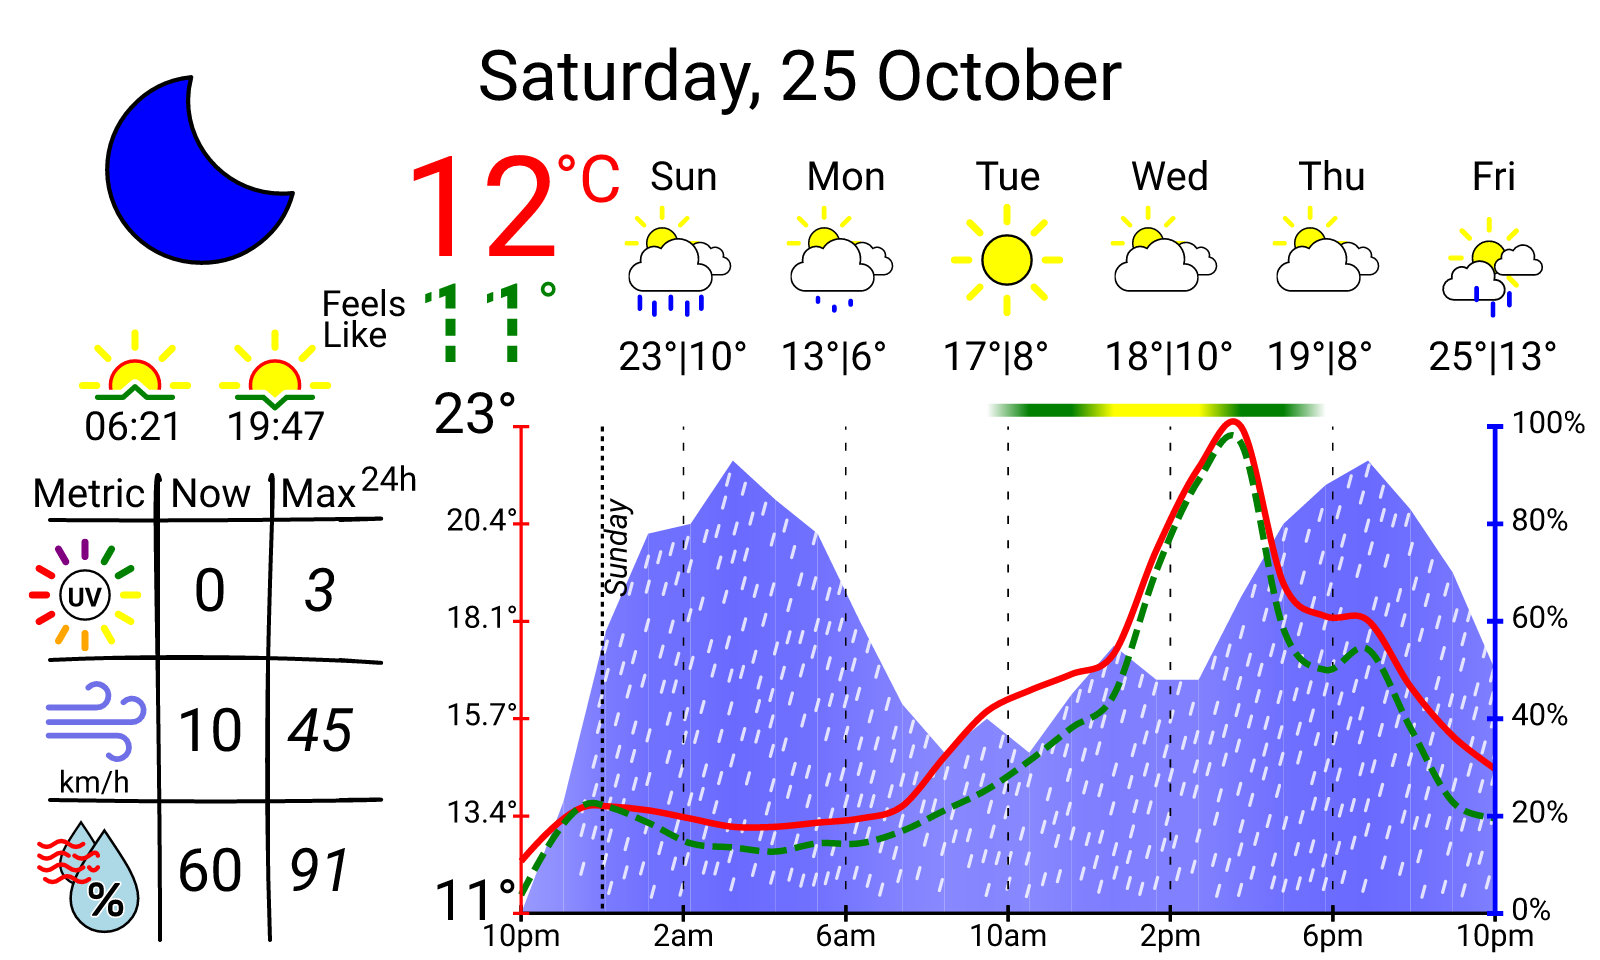
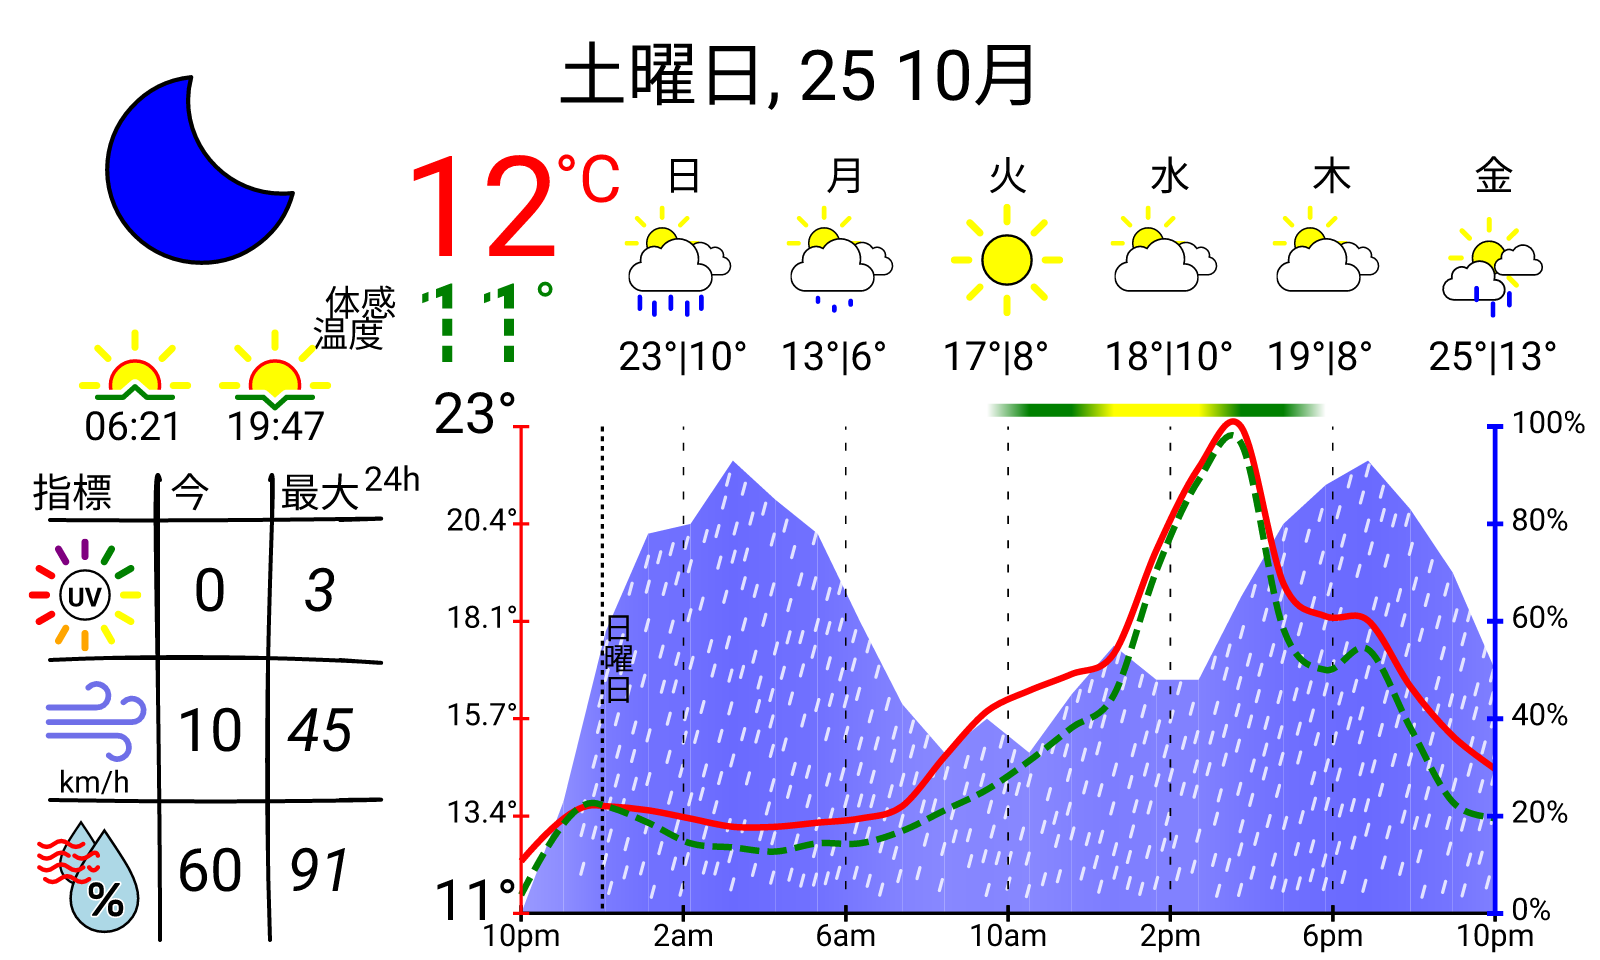
fix(i18n): render Japanese tomorrow-marker in stacked long form
Rotating kanji glyphs -90° (the Latin-script convention used for the
other locales) reads as broken, and the single-kanji short form dropped
too much information. Render the full weekday name top-to-bottom
(tategaki) instead, and drop the per-weekday byte-length fallback for
Latin languages in favour of a test-time invariant, since a per-day
runtime fallback could make one weekday look inconsistent with the rest.

diff --git a/src/i18n.rs b/src/i18n.rs
@@ -1,8 +1,9 @@
 use chrono::{DateTime, Datelike, TimeZone, Weekday};
 use std::fmt::Display;
 
-#[derive(Debug, Clone, Copy, PartialEq, Eq)]
+#[derive(Debug, Default, Clone, Copy, PartialEq, Eq)]
 pub enum Language {
+    #[default]
     En,
     Fr,
     De,
@@ -32,8 +33,8 @@ pub enum TranslationKey {
     Hours24,
 }
 
-pub fn translate(key: TranslationKey, language_code: &str) -> &'static str {
-    match (Language::from_config(language_code), key) {
+pub fn translate(key: TranslationKey, language: Language) -> &'static str {
+    match (language, key) {
         (Language::En, TranslationKey::Feels) => "Feels",
         (Language::En, TranslationKey::Like) => "Like",
         (Language::En, TranslationKey::Metric) => "Metric",
@@ -67,8 +68,8 @@ pub fn translate(key: TranslationKey, language_code: &str) -> &'static str {
     }
 }
 
-pub fn weekday_short(weekday: Weekday, language_code: &str) -> &'static str {
-    match Language::from_config(language_code) {
+pub fn weekday_short(weekday: Weekday, language: Language) -> &'static str {
+    match language {
         Language::En => match weekday {
             Weekday::Mon => "Mon",
             Weekday::Tue => "Tue",
@@ -117,8 +118,8 @@ pub fn weekday_short(weekday: Weekday, language_code: &str) -> &'static str {
     }
 }
 
-pub fn weekday_long(weekday: Weekday, language_code: &str) -> &'static str {
-    match Language::from_config(language_code) {
+pub fn weekday_long(weekday: Weekday, language: Language) -> &'static str {
+    match language {
         Language::En => match weekday {
             Weekday::Mon => "Monday",
             Weekday::Tue => "Tuesday",
@@ -167,21 +168,8 @@ pub fn weekday_long(weekday: Weekday, language_code: &str) -> &'static str {
     }
 }
 
-/// Returns the long weekday name if it fits within `max_len` bytes, otherwise
-/// falls back to the short abbreviation. Guards fixed-width display slots
-/// (e.g. a rotated chart label) against translations longer than the
-/// hand-picked English/French/Spanish abbreviations happen to be.
-pub fn weekday_fitting(weekday: Weekday, language_code: &str, max_len: usize) -> &'static str {
-    let long_name = weekday_long(weekday, language_code);
-    if long_name.len() <= max_len {
-        long_name
-    } else {
-        weekday_short(weekday, language_code)
-    }
-}
-
-pub fn month_short(month: u32, language_code: &str) -> &'static str {
-    match Language::from_config(language_code) {
+pub fn month_short(month: u32, language: Language) -> &'static str {
+    match language {
         Language::En => match month {
             1 => "Jan",
             2 => "Feb",
@@ -260,8 +248,8 @@ pub fn month_short(month: u32, language_code: &str) -> &'static str {
     }
 }
 
-pub fn month_long(month: u32, language_code: &str) -> &'static str {
-    match Language::from_config(language_code) {
+pub fn month_long(month: u32, language: Language) -> &'static str {
+    match language {
         Language::En => match month {
             1 => "January",
             2 => "February",
@@ -340,12 +328,12 @@ pub fn month_long(month: u32, language_code: &str) -> &'static str {
     }
 }
 
-pub fn format_localized_date<Tz>(date: DateTime<Tz>, format: &str, language_code: &str) -> String
+pub fn format_localized_date<Tz>(date: DateTime<Tz>, format: &str, language: Language) -> String
 where
     Tz: TimeZone,
     Tz::Offset: Display,
 {
-    if Language::from_config(language_code) == Language::En {
+    if language == Language::En {
         return date.format(format).to_string();
     }
 
@@ -359,30 +347,30 @@ where
 
     date.format(&template)
         .to_string()
-        .replace("\x00WL\x00", weekday_long(date.weekday(), language_code))
-        .replace("\x00WS\x00", weekday_short(date.weekday(), language_code))
-        .replace("\x00ML\x00", month_long(date.month(), language_code))
-        .replace("\x00MS\x00", month_short(date.month(), language_code))
+        .replace("\x00WL\x00", weekday_long(date.weekday(), language))
+        .replace("\x00WS\x00", weekday_short(date.weekday(), language))
+        .replace("\x00ML\x00", month_long(date.month(), language))
+        .replace("\x00MS\x00", month_short(date.month(), language))
 }
 
 #[cfg(test)]
 mod tests {
     use super::{
-        format_localized_date, translate, weekday_fitting, weekday_short, Language, TranslationKey,
+        format_localized_date, translate, weekday_long, weekday_short, Language, TranslationKey,
     };
     use chrono::{Local, TimeZone, Weekday};
 
     #[test]
     fn unknown_language_falls_back_to_english() {
         assert_eq!(Language::from_config("unknown"), Language::En);
-        assert_eq!(translate(TranslationKey::Feels, "unknown"), "Feels");
+        assert_eq!(translate(TranslationKey::Feels, Language::En), "Feels");
     }
 
     #[test]
     fn returns_localized_weekday_abbreviations() {
-        assert_eq!(weekday_short(Weekday::Mon, "fr"), "Lun");
-        assert_eq!(weekday_short(Weekday::Tue, "de"), "Di");
-        assert_eq!(weekday_short(Weekday::Sun, "ja"), "日");
+        assert_eq!(weekday_short(Weekday::Mon, Language::Fr), "Lun");
+        assert_eq!(weekday_short(Weekday::Tue, Language::De), "Di");
+        assert_eq!(weekday_short(Weekday::Sun, Language::Ja), "日");
     }
 
     #[test]
@@ -390,20 +378,40 @@ mod tests {
         let date = Local.with_ymd_and_hms(2025, 10, 25, 12, 0, 0).unwrap();
 
         assert_eq!(
-            format_localized_date(date, "%A, %d %B", "fr"),
+            format_localized_date(date, "%A, %d %B", Language::Fr),
             "Samedi, 25 Octobre"
         );
         assert_eq!(
-            format_localized_date(date, "%a, %-d %b", "de"),
+            format_localized_date(date, "%a, %-d %b", Language::De),
             "Sa, 25 Okt"
         );
     }
 
     #[test]
-    fn weekday_fitting_falls_back_to_short_name_past_max_len() {
-        // "Donnerstag" (10 bytes) exceeds a max_len of 8, so it falls back to "Do".
-        assert_eq!(weekday_fitting(Weekday::Thu, "de", 8), "Do");
-        // "Montag" (6 bytes) fits within a max_len of 8, so it passes through.
-        assert_eq!(weekday_fitting(Weekday::Mon, "de", 8), "Montag");
+    fn weekday_long_names_fit_the_rotated_chart_label_budget() {
+        // draw_tomorrow_line rotates weekday_long into a fixed-height chart
+        // slot for Latin-script languages. All weekdays within a language
+        // must use the same (long) form, so this asserts the budget for
+        // every day rather than falling back per-day at render time, which
+        // would produce visually inconsistent label shapes within a locale.
+        const MAX_LEN: usize = 10;
+        for language in [Language::En, Language::Fr, Language::De, Language::Es] {
+            for weekday in [
+                Weekday::Mon,
+                Weekday::Tue,
+                Weekday::Wed,
+                Weekday::Thu,
+                Weekday::Fri,
+                Weekday::Sat,
+                Weekday::Sun,
+            ] {
+                let name = weekday_long(weekday, language);
+                assert!(
+                    name.len() <= MAX_LEN,
+                    "{name:?} ({language:?}, {weekday:?}) is {} bytes, over the {MAX_LEN}-byte rotated label budget",
+                    name.len()
+                );
+            }
+        }
     }
 }

diff --git a/src/dashboard/chart.rs b/src/dashboard/chart.rs
@@ -1,9 +1,12 @@
 use crate::{
-    clock::Clock, constants::DEFAULT_AXIS_LABEL_FONT_SIZE, i18n::weekday_fitting, logger,
+    clock::Clock,
+    constants::DEFAULT_AXIS_LABEL_FONT_SIZE,
+    i18n::{weekday_long, Language},
+    logger,
     weather::icons::UVIndexIcon,
 };
 use anyhow::Error;
-use chrono::Datelike;
+use chrono::{Datelike, Weekday};
 use std::fmt;
 use strum_macros::Display;
 
@@ -123,7 +126,7 @@ pub struct HourlyForecastGraph {
     /// Display timezone for time-dependent labels (e.g. the "tomorrow" day name).
     pub tz: chrono_tz::Tz,
     /// Display language for time-dependent labels (e.g. the "tomorrow" day name).
-    pub language: String,
+    pub language: Language,
 }
 
 // TODO: use the builder pattern to create the graph
@@ -156,7 +159,7 @@ impl Default for HourlyForecastGraph {
             text_colour: "black".to_string(),
             background_colour: "white".to_string(),
             tz: chrono_tz::UTC,
-            language: "en".to_string(),
+            language: Language::En,
         }
     }
 }
@@ -406,6 +409,24 @@ pub struct AxisPaths {
     pub y_right_labels: String,
 }
 
+/// How the "tomorrow" weekday label is drawn on the day-boundary line.
+enum TomorrowLabel {
+    /// rotated -90° for Latin scripts.
+    Rotated(&'static str),
+    /// Stacked for japanese
+    Stacked(&'static str),
+}
+
+/// Picks the tomorrow-label style for a language.
+fn tomorrow_label(language: Language, weekday: Weekday) -> TomorrowLabel {
+    match language {
+        Language::Ja => TomorrowLabel::Stacked(weekday_long(weekday, language)),
+        Language::En | Language::Fr | Language::De | Language::Es => {
+            TomorrowLabel::Rotated(weekday_long(weekday, language))
+        }
+    }
+}
+
 /// Create the axis paths and labels for the graph
 impl HourlyForecastGraph {
     pub fn create_axis_with_labels(&self, current_hour: f32, clock: &dyn Clock) -> AxisPaths {
@@ -653,30 +674,52 @@ impl HourlyForecastGraph {
     }
 
     fn draw_tomorrow_line(&self, x_coor: f32, clock: &dyn Clock) -> String {
-        let language = self.language.as_str();
-        // 10 bytes is the longest weekday_long name across all supported
-        // locales ("Donnerstag"); beyond that, fall back to the short form
-        // so a future translation can't overflow this rotated chart label.
-        let tomorrow_day_name = weekday_fitting(
-            (clock.now_local(self.tz) + chrono::Duration::days(1)).weekday(),
-            language,
-            10,
-        )
-        .to_string();
+        let tomorrow_weekday = (clock.now_local(self.tz) + chrono::Duration::days(1)).weekday();
 
-        format!(
-            r#"<line x1="{x}" y1="0" x2="{x}" y2="{chart_height}" stroke="{colour}" stroke-width="2" stroke-dasharray="3,3" />
+        match tomorrow_label(self.language, tomorrow_weekday) {
+            TomorrowLabel::Rotated(tomorrow_day_name) => format!(
+                r#"<line x1="{x}" y1="0" x2="{x}" y2="{chart_height}" stroke="{colour}" stroke-width="2" stroke-dasharray="3,3" />
                    <text x="{x_text}" y="{y_text}" fill="{colour}" font-size="{DEFAULT_AXIS_LABEL_FONT_SIZE}" font-style="{font_style}"  transform="rotate(-90, {rotate_x_text}, {rotate_y_text})" text-anchor="start">{tomorrow_day_name}</text>"#,
-            x = x_coor,
-            chart_height = self.height,
-            x_text = x_coor + 10.0,
-            y_text = (self.height / 2.0) + 20.0,
-            font_style = FontStyle::Italic,
-            rotate_x_text = x_coor + 10.0 - 30.0,
-            rotate_y_text = (self.height / 2.0) - 15.0,
-            colour = self.text_colour,
-            tomorrow_day_name = tomorrow_day_name
-        )
+                x = x_coor,
+                chart_height = self.height,
+                x_text = x_coor + 10.0,
+                y_text = (self.height / 2.0) + 20.0,
+                font_style = FontStyle::Italic,
+                rotate_x_text = x_coor + 10.0 - 30.0,
+                rotate_y_text = (self.height / 2.0) - 15.0,
+                colour = self.text_colour,
+                tomorrow_day_name = tomorrow_day_name,
+            ),
+            TomorrowLabel::Stacked(name) => {
+                let chars: Vec<char> = name.chars().collect();
+                let line_height = f32::from(DEFAULT_AXIS_LABEL_FONT_SIZE);
+                let x_text = x_coor + 10.0;
+                // Centre the column on the same axis point the Upright style used,
+                // offsetting upward by half the total stack height.
+                let start_y =
+                    (self.height / 2.0) - (line_height * (chars.len() as f32 - 1.0) / 2.0);
+                let tspans: String = chars
+                    .iter()
+                    .enumerate()
+                    .map(|(i, c)| {
+                        if i == 0 {
+                            format!(r#"<tspan x="{x_text}" y="{start_y}">{c}</tspan>"#)
+                        } else {
+                            format!(r#"<tspan x="{x_text}" dy="{line_height}">{c}</tspan>"#)
+                        }
+                    })
+                    .collect();
+                format!(
+                    r#"<line x1="{x}" y1="0" x2="{x}" y2="{chart_height}" stroke="{colour}" stroke-width="2" stroke-dasharray="3,3" />
+                       <text fill="{colour}" font-size="{DEFAULT_AXIS_LABEL_FONT_SIZE}" font-style="{font_style}" text-anchor="middle">{tspans}</text>"#,
+                    x = x_coor,
+                    chart_height = self.height,
+                    font_style = FontStyle::Normal,
+                    colour = self.text_colour,
+                    tspans = tspans,
+                )
+            }
+        }
     }
 
     fn initialize_x_y_bounds(&mut self) {

diff --git a/src/dashboard/context.rs b/src/dashboard/context.rs
@@ -5,7 +5,7 @@ use crate::{
     dashboard::chart::{GraphDataPath, HourlyForecastGraph},
     domain::models::{DailyForecast, HourlyForecast},
     errors::{DashboardError, Description},
-    i18n::{format_localized_date, translate, weekday_short, TranslationKey},
+    i18n::{format_localized_date, translate, weekday_short, Language, TranslationKey},
     logger,
     utils::{find_max_item_between_dates, total_between_dates},
     weather::icons::{HumidityIconName, Icon, IconContext, SunPositionIconName, UVIndexIcon},
@@ -121,7 +121,7 @@ impl Context {
             .to_string();
         let colours = settings.colours.clone();
         let render_options = settings.render_options.clone();
-        let language = render_options.language.as_str();
+        let language = Language::from_config(&render_options.language);
         let graph_height = "300".to_string();
         let graph_width = "600".to_string();
         Self {
@@ -486,7 +486,7 @@ impl<'a> ContextBuilder<'a> {
     }
 
     fn initialize_day_names(&mut self, local_midnight_time: DateTime<Tz>) {
-        let language = self.settings.render_options.language.as_str();
+        let language = Language::from_config(&self.settings.render_options.language);
 
         // Pre-fill day names based on local calendar (independent of forecast data)
         self.context.day2_name = weekday_short(
@@ -571,7 +571,7 @@ impl<'a> ContextBuilder<'a> {
             text_colour: self.settings.colours.text_colour.to_string(),
             background_colour: self.settings.colours.background_colour.to_string(),
             tz: self.settings.misc.timezone,
-            language: self.settings.render_options.language.clone(),
+            language: Language::from_config(&self.settings.render_options.language),
             ..Default::default()
         };
 
@@ -789,7 +789,7 @@ impl<'a> ContextBuilder<'a> {
         self.context.current_day_date = format_localized_date(
             clock.now_local(self.settings.misc.timezone),
             self.settings.render_options.date_format.as_ref(),
-            &self.settings.render_options.language,
+            Language::from_config(&self.settings.render_options.language),
         );
         self.context.current_hour_rain_amount = current_hour.precipitation.amount().to_string();
 

diff --git a/tests/i18n_integration_test.rs b/tests/i18n_integration_test.rs
@@ -148,6 +148,10 @@ async fn japanese_language_override_localizes_rendered_dashboard() {
     assert!(svg_content.contains("今"));
     // Date header: Saturday 25 October in Japanese (%A, %d %B)
     assert!(svg_content.contains("土曜日, 25 10月"));
-    // Tomorrow chart marker: 2025-10-26 is Sunday = 日曜日
-    assert!(svg_content.contains("日曜日"));
+    // Tomorrow chart marker: 2025-10-26 is Sunday = 日曜日. Kanji rotated 90°
+    // (the Latin-script convention other locales use here) reads as broken,
+    // so Japanese renders the long-form name stacked top-to-bottom (tategaki)
+    // instead — one <tspan> per character — see draw_tomorrow_line in chart.rs.
+    assert!(svg_content.contains("<tspan x=\"") && svg_content.contains(">日</tspan>"));
+    assert!(svg_content.contains(">曜</tspan>"));
 }
